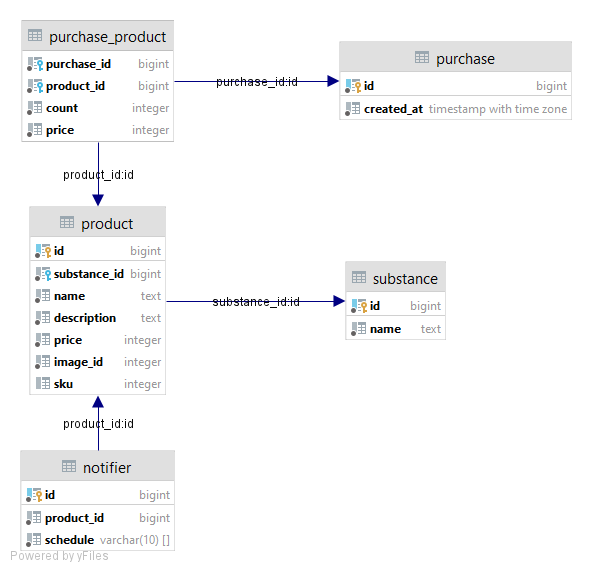
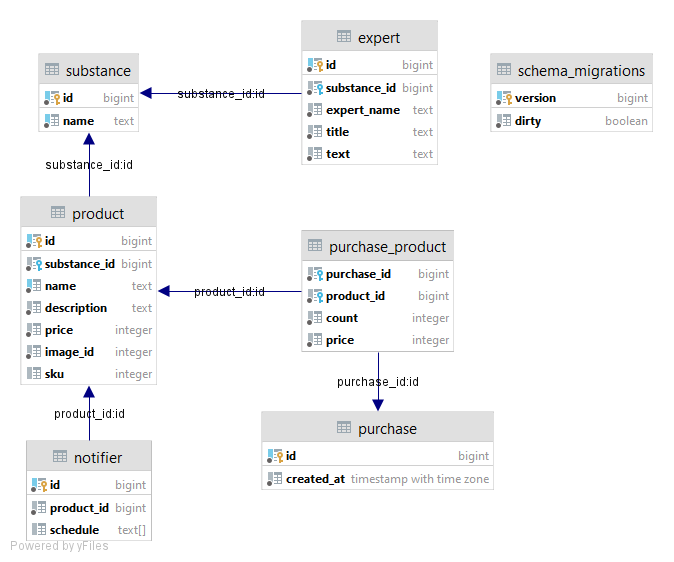
save point

Changed region(s): [[0.0304, 0.0302, 0.9713, 0.9982], [0.3642, 0.6352, 0.7589, 0.8772], [0.6071, 0.2722, 0.6374, 0.3025]]

diff --git a/cmd/eapteka/main.go b/cmd/eapteka/main.go
@@ -2,10 +2,11 @@ package main
 
 import (
 	"context"
-	"eapteka/pics"
+	"database/sql"
 	"encoding/json"
 	"errors"
 	"fmt"
+	"math/rand"
 	"net/http"
 	"os"
 	"os/signal"
@@ -14,27 +15,30 @@ import (
 	"sync"
 	"syscall"
 	"time"
-
-	"github.com/lib/pq"
-
-	"github.com/gofiber/websocket/v2"
+	_ "time/tzdata"
 
 	"github.com/gofiber/fiber/v2"
 	"github.com/gofiber/fiber/v2/middleware/cors"
 	"github.com/gofiber/fiber/v2/middleware/logger"
 	"github.com/gofiber/fiber/v2/middleware/recover"
+	"github.com/gofiber/websocket/v2"
 	"github.com/jmoiron/sqlx"
+	"github.com/lib/pq"
 	_ "github.com/lib/pq"
 	"github.com/sirupsen/logrus"
 
 	"eapteka/ent"
 	"eapteka/filesystem"
 	"eapteka/migrations"
+	"eapteka/pics"
 	"eapteka/ui"
 )
 
 func timeStrToGoTime(s string) (time.Time, error) {
-	ps := strings.SplitN(s, ": ", 3)
+	ps := strings.Split(s, ":")
+	if len(ps) != 3 {
+		return time.Time{}, fmt.Errorf("invalid time format")
+	}
 
 	h, err := strconv.Atoi(ps[0])
 	if err != nil {
@@ -55,7 +59,68 @@ func timeStrToGoTime(s string) (time.Time, error) {
 }
 
 func goTimeToTimeStr(t time.Time) string {
-	return t.Format("04:05 MST")
+	return t.Format("15:04:") + t.Location().String()
+}
+
+func processRecommends(db *sqlx.DB) []int64 {
+
+	rows, err := db.Query(`
+		select pp.product_id as product_id, p.created_at as created_at
+		from purchase as p
+		left join purchase_product as pp on p.id = pp.purchase_id
+		where product_id is not null and created_at >= $1
+		order by created_at desc ;
+	`, time.Now().AddDate(0, -6, 0))
+	if err != nil {
+		logrus.WithError(err).Error("failed to get products")
+		return nil
+	}
+
+	purchases := map[int64][]time.Time{}
+
+	for rows.Next() {
+		var (
+			createdAt time.Time
+			productID int64
+		)
+
+		err := rows.Scan(&createdAt, &productID)
+		if err != nil {
+			logrus.WithError(err).Error("failed to get product")
+			continue
+		}
+
+		purchases[productID] = append(purchases[productID], createdAt)
+	}
+
+	var recommends []int64
+
+	const (
+		minInterval = 25 * 24 * time.Hour
+		maxInterval = 35 * 24 * time.Hour
+
+		maxSubInterval = 1 * 24 * time.Hour
+	)
+
+	for pID, ts := range purchases {
+		if len(ts) < 2 {
+			continue
+		}
+		var count int
+		for i := 1; i < len(ts); i++ {
+			interval := ts[i].Sub(ts[i-1])
+			if (interval < minInterval || interval > maxInterval) &&
+				maxSubInterval > interval {
+				break
+			}
+			count++
+		}
+		if count > 2 {
+			recommends = append(recommends, pID)
+		}
+	}
+
+	return recommends
 }
 
 func main() {
@@ -90,7 +155,7 @@ func main() {
 			wg    sync.WaitGroup
 			ps    []ent.Product
 			psErr error
-			ss    []ent.Product
+			ss    []ent.Substance
 			ssErr error
 		)
 
@@ -314,7 +379,7 @@ func main() {
 		}
 	}()
 
-	api.Get("/notifers", func(ctx *fiber.Ctx) error {
+	api.Get("/notifiers", func(ctx *fiber.Ctx) error {
 
 		nsMx.RLock()
 		defer nsMx.RUnlock()
@@ -327,7 +392,7 @@ func main() {
 		return ctx.JSON(ns)
 	})
 
-	api.Post("/notifers", func(ctx *fiber.Ctx) error {
+	api.Post("/notifiers", func(ctx *fiber.Ctx) error {
 		var n ent.Notifier
 
 		err = json.Unmarshal(ctx.Body(), &n)
@@ -335,11 +400,19 @@ func main() {
 			return fiber.NewError(http.StatusBadRequest, err.Error())
 		}
 
-		for _, s := range n.Schedule {
-			_, err = timeStrToGoTime(s)
+		err = db.QueryRowx(`
+			select name from product where id = $1
+		`, n.ProductID).Scan(&n.ProductName)
+		if err != nil {
+			return err
+		}
+
+		for i, s := range n.Schedule {
+			t, err := timeStrToGoTime(s)
 			if err != nil {
 				return fiber.NewError(http.StatusBadRequest, err.Error())
 			}
+			n.Schedule[i] = goTimeToTimeStr(t)
 		}
 
 		err = db.QueryRowx(`
@@ -375,21 +448,43 @@ func main() {
 		return ctx.SendStatus(http.StatusOK)
 	})
 
+	api.Get("/experts/:substance_id", func(ctx *fiber.Ctx) error {
+		sID, err := ctx.ParamsInt("substance_id")
+		if err != nil {
+			return fiber.NewError(http.StatusBadRequest, err.Error())
+		}
+
+		var e ent.Expert
+
+		err = db.QueryRowx(`
+			select * from expert where substance_id = $1
+		`, sID).StructScan(&e)
+		if err != nil {
+			if errors.Is(err, sql.ErrNoRows) {
+				return ctx.SendStatus(http.StatusNotFound)
+			}
+			return err
+		}
+
+		return ctx.JSON(e)
+	})
+
 	var (
-		wsClose chan struct{}
-		wsWg    sync.WaitGroup
+		wsNotifierClose = make(chan struct{})
+		wsNotifierWg    sync.WaitGroup
 	)
 
 	ws.Get("/ws/notifier", websocket.New(func(c *websocket.Conn) {
-		wsWg.Add(1)
-		defer wsWg.Done()
+		wsNotifierWg.Add(1)
+		defer wsNotifierWg.Done()
 		defer c.Close()
 
 		t := time.NewTicker(30 * time.Second)
+		defer t.Stop()
 
 		for {
 			select {
-			case <-wsClose:
+			case <-wsNotifierClose:
 				return
 			case <-t.C:
 			}
@@ -410,6 +505,66 @@ func main() {
 				}
 			}
 			nsMx.RUnlock()
+		}
+	}))
+
+	var (
+		wsRecommendsClose = make(chan struct{})
+		wsRecommends      = make(chan ent.Product)
+		wsRecommendsWg    sync.WaitGroup
+	)
+
+	wsRecommendsWg.Add(1)
+	go func() {
+		defer wsRecommendsWg.Done()
+
+		t := time.NewTicker(1 * time.Hour)
+		var p ent.Product
+
+		for {
+			select {
+			case <-wsRecommendsClose:
+				return
+			case <-t.C:
+			}
+
+			recommends := processRecommends(db)
+
+			pID := recommends[rand.Intn(len(recommends))]
+
+			err = db.QueryRowx(`
+				select p.id as id, p.name as name, description, price, image_id,
+						sku, s.name as substance_name
+				from product p
+					left join substance s on p.substance_id = s.id
+				where p.id = $1
+			`, pID).StructScan(&p)
+			if err != nil {
+				logrus.WithError(err).Error("failed to get product")
+				continue
+			}
+
+			wsRecommends <- p
+		}
+	}()
+
+	ws.Get("/ws/recommends", websocket.New(func(c *websocket.Conn) {
+		wsRecommendsWg.Add(1)
+		defer wsRecommendsWg.Done()
+		defer c.Close()
+
+		var p ent.Product
+
+		for {
+			select {
+			case <-wsRecommendsClose:
+				return
+			case p = <-wsRecommends:
+			}
+
+			if err = c.WriteJSON(p); err != nil {
+				return
+			}
 		}
 	}))
 
@@ -455,13 +610,15 @@ func main() {
 	signal.Notify(exit, os.Interrupt, syscall.SIGTERM)
 	<-exit
 
-	close(wsClose)
+	close(wsNotifierClose)
+	close(wsRecommendsClose)
 
 	err = ws.Shutdown()
 	if err != nil {
 		logrus.WithError(err).Fatal("failed to shutdown web server")
 	}
 
-	wsWg.Wait()
+	wsNotifierWg.Wait()
+	wsRecommendsWg.Wait()
 	wg.Wait()
 }

diff --git a/ent/ent.go b/ent/ent.go
@@ -1,6 +1,10 @@
 package ent
 
-import "time"
+import (
+	"time"
+
+	"github.com/lib/pq"
+)
 
 type Purchase struct {
 	ID        int64     `json:"id" db:"id"`
@@ -38,9 +42,17 @@ type Substance struct {
 }
 
 type Notifier struct {
-	ID        int64    `json:"id" db:"id"`
-	ProductID int64    `json:"product_id" db:"product_id"`
-	Schedule  []string `json:"schedule" db:"schedule"`
+	ID        int64          `json:"id" db:"id"`
+	ProductID int64          `json:"product_id" db:"product_id"`
+	Schedule  pq.StringArray `json:"schedule" db:"schedule"`
 
 	ProductName string `json:"product_name" db:"product_name"`
+}
+
+type Expert struct {
+	ID          int64  `json:"id" db:"id"`
+	SubstanceID int64  `json:"substance_id" db:"substance_id"`
+	ExpertName  string `json:"expert_name" db:"expert_name"`
+	Title       string `json:"title" db:"title"`
+	Text        string `json:"text" db:"text"`
 }
